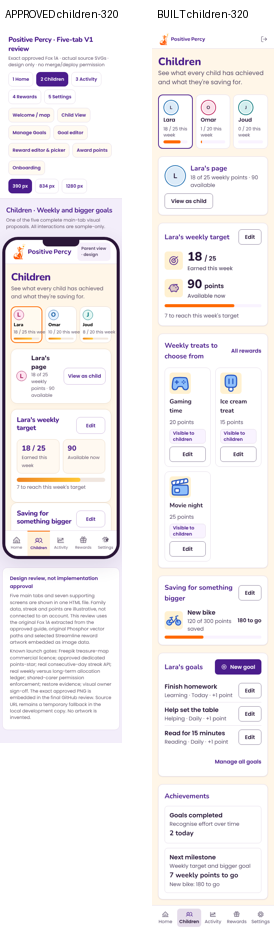
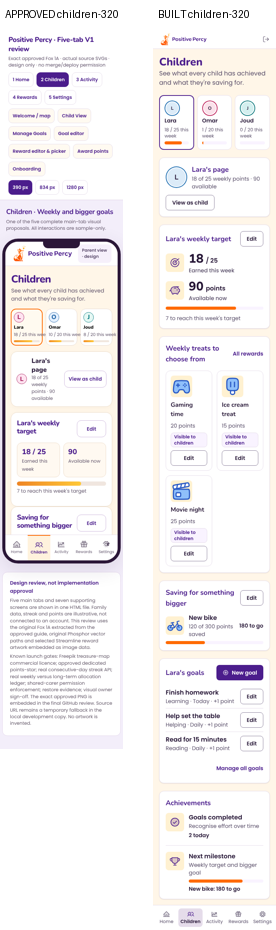
feat(v1): Achievements card on Children as two plain rows with a weekly progress bar
Owner's visual review, 22 November: "achievements boxes in children is cramped
and looks bad. redesign", then "instead of 25 weekly points to go put a small
progress bar".

- Two plain rows, each with an approved icon in a tile (a circled tick, a
  trophy); one under the other with a line between on a phone, side by side
  from 640px. No box inside the card.
- "Next milestone" shows the weekly target as a small progress bar; the
  sentence it replaces is the bar's spoken value. The bigger goal's "to go"
  line is unchanged.
- From the focused review: the rows can shrink so a long goal name breaks; the
  bar's width no longer follows the text.

No change to server code, migrations or scripts. Evidence pack retaken.
Design: V1-B design v1.5 sections 10.8 and 11.

Claude-Session: https://claude.ai/code/session_01S1yExcfoWX12tnn9YQ8nJw

diff --git a/src/pages/Children.jsx b/src/pages/Children.jsx
@@ -249,17 +249,37 @@ export default function Children() {
       <Card>
         <CardContent className="p-4 sm:p-5 space-y-3">
           <SectionHead title="Achievements" />
-          <div className="grid gap-3 xs:grid-cols-2">
-            <div className="rounded-md border border-border p-3">
-              <p className="font-semibold text-foreground">Goals completed</p>
-              <p className="text-sm text-muted-foreground">Recognise effort over time</p>
-              <p className="font-display font-bold text-lg text-foreground tabular-nums">{doneToday} today</p>
+          {/* Two plain rows with a picture each, not two boxes inside the card
+              (owner, 22 Nov: "cramped and looks bad"; V1-B design §11). One
+              under the other on a phone, with a line between; side by side
+              from 640px. The weekly sentence became a bar at the owner's word. */}
+          <div className="grid gap-4 sm:grid-cols-2" data-achievements>
+            <div className="flex min-w-0 items-start gap-3">
+              <span aria-hidden="true" className="flex h-12 w-12 shrink-0 items-center justify-center rounded-md bg-warning text-primary">
+                <PercyIcon id="phosphor:check-circle:duotone" className="h-7 w-7" />
+              </span>
+              <div className="min-w-0 flex-1">
+                <p className="font-semibold text-foreground">Goals completed</p>
+                <p className="text-sm text-muted-foreground">Recognise effort over time</p>
+                <p className="mt-1 text-sm font-semibold text-foreground tabular-nums">{doneToday} today</p>
+              </div>
             </div>
-            <div className="rounded-md border border-border p-3">
-              <p className="font-semibold text-foreground">Next milestone</p>
-              <p className="text-sm text-muted-foreground">Weekly target and bigger goal</p>
-              <p className="font-display font-bold text-lg text-foreground tabular-nums">{toTarget} weekly points to go</p>
-              {topGoal && <p className="text-sm text-muted-foreground tabular-nums">{topGoal.name}: {topGoal.to_go > 0 ? `${topGoal.to_go} to go` : 'Saved!'}</p>}
+            <div className="flex min-w-0 items-start gap-3 border-t border-border pt-4 sm:border-t-0 sm:pt-0">
+              <span aria-hidden="true" className="flex h-12 w-12 shrink-0 items-center justify-center rounded-md bg-warning text-primary">
+                <PercyIcon id="phosphor:trophy:duotone" className="h-7 w-7" />
+              </span>
+              <div className="min-w-0 flex-1">
+                <p className="font-semibold text-foreground">Next milestone</p>
+                <p className="text-sm text-muted-foreground">Weekly target and bigger goal</p>
+                {/* A small bar, not the sentence "{n} weekly points to go" (owner, 22 Nov).
+                    The sentence is still what a screen reader hears. */}
+                <div className="mt-2 h-2 w-full max-w-xs rounded-full bg-muted overflow-hidden" role="progressbar" aria-label="Weekly target"
+                  aria-valuemin={0} aria-valuemax={Math.max(target, 0)} aria-valuenow={Math.max(0, Math.min(week, target))}
+                  aria-valuetext={`${toTarget} weekly points to go`} data-milestone-bar>
+                  <div className="h-full rounded-full bg-sunrise" style={{ width: pct(week, target) + '%' }} />
+                </div>
+                {topGoal && <p className="mt-1.5 text-sm font-semibold text-foreground tabular-nums break-words">{topGoal.name}: {topGoal.to_go > 0 ? `${topGoal.to_go} to go` : 'Saved!'}</p>}
+              </div>
             </div>
           </div>
         </CardContent>

diff --git a/src/pages/V1Children.test.jsx b/src/pages/V1Children.test.jsx
@@ -80,7 +80,18 @@ describe('Children page (§2)', () => {
     expect([...document.querySelectorAll('[data-figure] [data-icon]')].map((i) => i.getAttribute('data-icon')))
       .toEqual(['phosphor:target:duotone', 'phosphor:piggy-bank:duotone']);
     expect(screen.getByText("7 to reach this week's target")).toBeTruthy();
-    expect(screen.getByText('7 weekly points to go')).toBeTruthy();
+    // Next milestone: a small bar for the weekly target, not a sentence (owner, 22 Nov).
+    // A screen reader still hears "7 weekly points to go".
+    const bar = screen.getByRole('progressbar', { name: 'Weekly target' });
+    expect(bar.getAttribute('aria-valuetext')).toBe('7 weekly points to go');
+    expect([bar.getAttribute('aria-valuenow'), bar.getAttribute('aria-valuemax')]).toEqual(['18', '25']);
+    expect(bar.firstElementChild.style.width).toBe('72%');
+    expect(screen.queryByText('7 weekly points to go')).toBeNull();
+    // Achievements: two plain rows with a picture each, no boxes inside the card (owner, 22 Nov; design §11).
+    const rows = [...document.querySelectorAll('[data-achievements] > div')];
+    expect(rows.map((r) => r.querySelector('[data-icon]').getAttribute('data-icon'))).toEqual(['phosphor:check-circle:duotone', 'phosphor:trophy:duotone']);
+    expect(rows.map((r) => r.querySelector('p').textContent)).toEqual(['Goals completed', 'Next milestone']);
+    expect(rows.some((r) => /(^|\s)border(\s|$)/.test(r.className) || /rounded-md/.test(r.className))).toBe(false); // neither a border nor a box, in any class order
     expect(screen.getByRole('link', { name: 'All rewards' })).toBeTruthy();
     // D1 (savings §19.3): the savings section and the approved milestone
     // subtitle; with no bigger goals there is nothing to Edit. The
@@ -116,7 +127,11 @@ describe('Children page (§2)', () => {
     state.children = [{ ...lara, week_points: 30 }];
     mount(Children);
     expect(await screen.findByText("0 to reach this week's target")).toBeTruthy();
-    expect(screen.getByText('0 weekly points to go')).toBeTruthy();
+    // The milestone bar is full, never past the end (30 of 25).
+    const bar = screen.getByRole('progressbar', { name: 'Weekly target' });
+    expect(bar.getAttribute('aria-valuetext')).toBe('0 weekly points to go');
+    expect([bar.getAttribute('aria-valuenow'), bar.getAttribute('aria-valuemax')]).toEqual(['25', '25']);
+    expect(bar.firstElementChild.style.width).toBe('100%');
   });
 
   it('?child= picks the child; an unknown id falls back to the oldest (E2)', async () => {

diff --git a/docs/engineering/V1-B-DESIGN.md b/docs/engineering/V1-B-DESIGN.md
@@ -2,7 +2,7 @@
 
 | Field | Value |
 | --- | --- |
-| Version | 1.4 |
+| Version | 1.5 |
 | Issued | 2026-11-19 |
 | Owner | Percy V1 engineering (branch `claude/percy-v1-b-children`, stacked on V1-D `claude/percy-v1-d-rewards`) |
 | Status | Reviewed (§8); build may start. Owner items in §7 |
@@ -12,6 +12,7 @@
 
 | Version | Date | Change |
 | --- | --- | --- |
+| 1.5 | 2026-11-22 | §10.8: the points figure is one shared component on Child View, Home and Children (owner: apply it consistently). §11: the Achievements card redrawn as two plain rows (owner: "cramped and looks bad") |
 | 1.4 | 2026-11-22 | §10: Child View points card reworked at the owner's request (visual review, 22 November). Design for review before the build |
 | 1.3 | 2026-11-19 | Post-build code review (§9): New goal used the previous child's behaviour (Major, fixed); focus, refresh, loading and lock fixes |
 | 1.2 | 2026-11-19 | Owner decisions: B1 approved for now (full milestone wording restored when D1 lands); B3 approved ("Ask a parent"; after pressing, "Ready when a parent agrees"; nothing charged until a parent confirms) |
@@ -209,3 +210,44 @@ One blocking finding, adopted: no space between the two parts of the sentence. A
 ### 10.7 Rollout and reversal
 
 One commit on the release-candidate branch. Reverting it restores the approved two-tile card. No data, server or migration change.
+
+### 10.8 The same figure on Home and Children (owner, 22 November)
+
+**Owner's finding.** "Why is the home page and child page points / icons different? The changes we just made … need to be consistently applied."
+
+The figure of §10.2 is now one component, `src/components/PointsFigure.jsx`, used by Child View's points card, Home's "Little wins, big adventures!" and the Children weekly-target card. Each shows an icon in a tile, the figure with its unit on one baseline, and the approved label beneath:
+
+| Screen | Figures |
+| --- | --- |
+| Child View | piggy bank: "{n} points", "Ready to use" |
+| Home | target: "{week} / {target}", "This week"; piggy bank: "{n} points", "Available now" |
+| Children | target: "{week} / {target}", "Earned this week"; piggy bank: "{n} points", "Available now" |
+
+Labels are unchanged per screen. Both icons are approved Phosphor icons already in the app (the target is the Goals control's icon; the piggy bank is a picker icon). The bordered tiles inside those two cards are gone. The figures sit one under the other on a phone and side by side from 640 px. The shared screen check measures every figure's baseline, left edge and centring on every screen it opens.
+
+Reviewed after the build (release assessment §4.6): a missing weekly target shows 0, never "null"; the singular is tested on each screen.
+
+## 11. Achievements card on Children (owner, 22 November) (v1.5)
+
+**Owner's finding.** "Achievements boxes in children is cramped and looks bad. Redesign."
+
+**What was there.** Two bordered boxes inside the card, holding sentences rather than figures. On a phone each box was about 150 px wide, so "Goals completed", "7 weekly points to go" and "New bike: 180 to go" each broke over two lines, the last leaving "go" alone.
+
+**Contract.** The same information and the same words, laid out so that nothing breaks awkwardly: two plain rows, each with a picture, with no box inside the card.
+
+**Build** (`src/pages/Children.jsx`, the Achievements card only):
+
+- row 1, a circled tick: "Goals completed", "Recognise effort over time", "{n} today";
+- row 2, a trophy: "Next milestone", "Weekly target and bigger goal", **a small progress bar for the weekly target** (the owner, on seeing the first version: "instead of 25 weekly points to go put a small progress bar"), and "{goal}: {n} to go" (or "Saved!") when the child has a bigger goal. The bar is the same bar as on the weekly-target card; a screen reader hears "Weekly target: {n} weekly points to go";
+- one under the other with a line between on a phone; side by side from 640 px, with no line;
+- the icon tile is the one used for a reward's picture and for the points figures, so the page's pictures share one size and one left edge;
+- both icons are approved Phosphor icons already in the app, hidden from assistive technology.
+
+**Unchanged:** every other string, every figure's source, and when the goal line appears. The sentence "{n} weekly points to go" is no longer shown; it is the bar's spoken value.
+
+**Edge cases.** A 100-character goal name with no spaces breaks inside the row. No bigger goal: the row has three lines. Target reached or passed: the bar is full, never beyond its end. A target of 0: the bar is empty.
+
+**Tests.** The two rows' titles and icons, and that neither row is a bordered box; the bar's name, spoken value, figures and width at 18 of 25 and at 30 of 25; the sentence is no longer on the page. The shared screen checks (clipped text, sideways scroll, text size, accessibility) run on the Children page at four sizes. **Not covered by a test:** how it looks; the before-and-after picture went to the owner.
+
+**Rollout and reversal.** One commit; reverting it restores the two boxes. No data, server or migration change.
+

diff --git a/docs/engineering/V1-RELEASE-ASSESSMENT.md b/docs/engineering/V1-RELEASE-ASSESSMENT.md
@@ -206,6 +206,7 @@ The test can fail: narrowing the form dialog on the smallest phones made it red 
 | E5 | Scrolled content in a dialog was cut in mid-air under the header | **Fixed:** a line under the dialog header, as there is above its footer |
 | D2 | Home's Rewards dialog: are "Spend" and "Not this time" at least 44 px? | **Confirmed, no change:** they are 44 px on touch screens (the browser tests measure this dialog on the touch phone and tablet) and 36 px with a mouse, like the app's other compact buttons. The critique measured a mouse capture |
 | Consistency (owner, in the session) | "Why is the home page and child page points / icons different? The changes we just made … need to be consistently applied" | **Fixed:** one shared figure (`src/components/PointsFigure.jsx`) on Child View, Home's "Little wins" and the Children weekly-target card: the icon in a tile, the figure with its unit, the approved label beneath. Labels are unchanged per screen. The boxes-inside-a-box tiles on those two cards are gone with it (critique D1) |
+| Achievements card on Children (owner, in the session) | "Achievements boxes in children is cramped and looks bad. Redesign" | **Fixed:** two plain rows with a picture each (a circled tick, a trophy), a line between on a phone, side by side from 640 px. On seeing it the owner asked for a small progress bar in place of "{n} weekly points to go": done, with the sentence kept as the bar's spoken value. The other wording is unchanged (V1-B design §11; critique D1) |
 
 **Not reopened** (handover): Activity "This week" stays centred; Child View says "Ready to use"; Quick Points keep their layout and new-family defaults; existing families keep their Quick Points; no child login, session, app or device mode.
 
@@ -306,6 +307,19 @@ Scope: the five small changes of §3.4 and nothing else. **No blocking defect.**
 | 4 | Note | Children now has two elements carrying the "available" marker when the savings dialog is open | Recorded; nothing depends on it. The tests that use the marker are scoped to one screen |
 | 5 | Note | An unused marker on the weekly figure | Removed |
 | 6 | Note, for the owner | Side effects of the shared figure beyond the icons: "18" is large with "/ 25" beside it as the unit; Children's "Available now" now reads "90 points"; the tiles' borders are gone; the two figures sit one under the other below 640 px | For the owner's visual sign-off |
+
+### 4.7 Focused independent review of the Achievements card
+
+| # | Severity | Finding | Resolution |
+| --- | --- | --- | --- |
+| 1 | Raised as blocking on scope | The sentence "{n} weekly points to go" is no longer shown, while a code comment and the design note still said the wording was unchanged | The owner asked for the bar in its place ("instead of 25 weekly points to go put a small progress bar"). The comment and the design note are corrected; the sentence is the bar's spoken value |
+| 2 | Should fix | On a phone the two rows could not shrink, so a 100-character goal name with no spaces would push the page sideways | Fixed: the rows can shrink and the name breaks |
+| 3 | Note | The bar's width followed the longest line of text, so it differed between children | Fixed: the text column takes the row's width |
+| 4 | Note | The test's "not a box" check depended on the order of two class names | Fixed: it checks each on its own |
+
+Confirmed: every other string, the condition for the goal line and the data sources are unchanged; both icons are approved and hidden from assistive technology; `server/`, `scripts/` and `e2e/` are untouched.
+
+**Open with the owner (not built):** the repetition across the screens. Mock-ups with it removed were sent on 22 November (Children, Home, Child View, Activity; option A trims, option B merges). Engineering's recommendation is option A for V1 and option B for V1.1. Nothing is changed until the owner chooses.
 
 ## 5. Gates: what is complete and what is not
 
